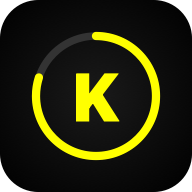
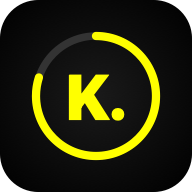
Brand update: Kova → K.
- App title and header display "K."
- Icon updated to "K." with recovery ring
- Regenerated all icon sizes

Changed region(s): [[0.3438, 0.375, 0.6562, 0.6562]]

diff --git a/index.html b/index.html
@@ -215,7 +215,7 @@
 <div class="onboarding" id="onboarding">
     <!-- Step 1: Welcome -->
     <div class="ob-step active" id="ob1">
-        <div class="ob-title">Kova</div>
+        <div class="ob-title">K.</div>
         <div class="ob-sub">Your training adapts to how your body recovers. Log workouts, track food with AI, and let recovery guide your intensity.</div>
         <button class="btn" onclick="obNext(2)">Get Started</button>
         <div class="ob-dots"><div class="ob-dot active"></div><div class="ob-dot"></div><div class="ob-dot"></div><div class="ob-dot"></div></div>
@@ -281,7 +281,7 @@
 <div class="header" id="appHeader">
     <div class="recovery-gradient" id="recoveryGradient"></div>
     <div class="header-top">
-        <div class="header-title">Kova</div>
+        <div class="header-title">K.</div>
         <div class="whoop-pill disconnected" id="whoopPill" onclick="authenticateWHOOP()">
             <span id="whoopPillText">Connect WHOOP</span>
         </div>

diff --git a/sw.js b/sw.js
@@ -1,4 +1,4 @@
-const CACHE_NAME = 'kova-v1';
+const CACHE_NAME = 'kova-v2';
 const ASSETS_TO_CACHE = [
   '/',
   '/index.html',
